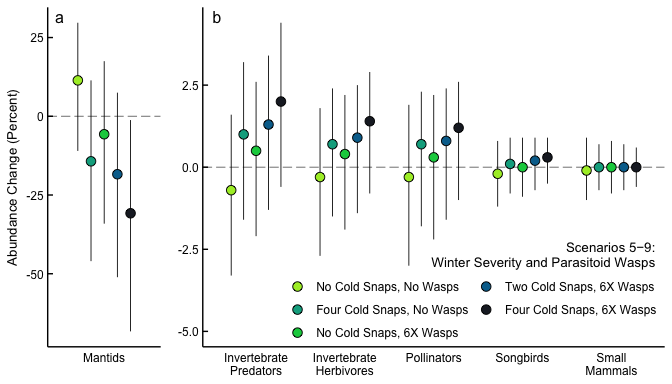
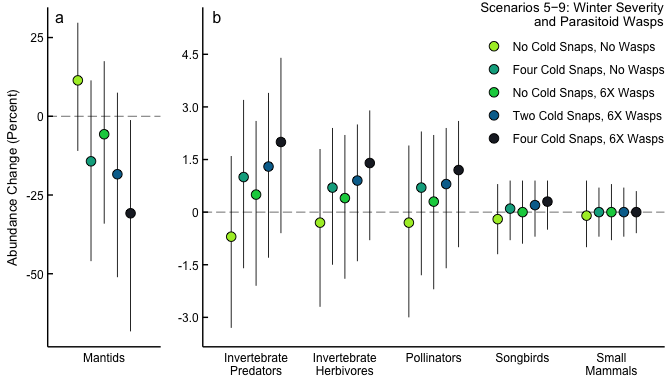
REFRESHED reports and figure dims

diff --git a/mantid_observations_mt.md b/mantid_observations_mt.md
@@ -1,7 +1,7 @@
 *Mantis religiosa* Observations in Western Montana
 ================
 Beau Larkin
-Last updated: 20 October, 2025
+Last updated: 27 October, 2025
 
 - [Description](#description)
 - [Packages and Libraries](#packages-and-libraries)
@@ -115,7 +115,7 @@ us_states <- ne_states(country = c("United States of America", "Canada"), return
 lakes <- ne_download(scale = 10, type = "lakes", category = "physical", returnclass = "sf")
 ```
 
-    ## Reading layer `ne_10m_lakes' from data source `/private/var/folders/f2/v4gkwmsn0nbd3fmypfh2wl740000gp/T/RtmpGwPpRA/ne_10m_lakes.shp' using driver `ESRI Shapefile'
+    ## Reading layer `ne_10m_lakes' from data source `/private/var/folders/f2/v4gkwmsn0nbd3fmypfh2wl740000gp/T/Rtmpom4B1B/ne_10m_lakes.shp' using driver `ESRI Shapefile'
     ## Simple feature collection with 1355 features and 41 fields
     ## Geometry type: MULTIPOLYGON
     ## Dimension:     XY
@@ -204,8 +204,7 @@ area_box <- st_bbox(c(xmin = -115.54, ymin = 45.84, xmax = -112.86, ymax = 48.64
 lakes_na <- ne_download(scale = 10, type = "lakes_north_america", category = "physical", returnclass = "sf")
 ```
 
-    ## Reading layer `ne_10m_lakes_north_america' from data source 
-    ##   `/private/var/folders/f2/v4gkwmsn0nbd3fmypfh2wl740000gp/T/RtmpGwPpRA/ne_10m_lakes_north_america.shp' using driver `ESRI Shapefile'
+    ## Reading layer `ne_10m_lakes_north_america' from data source `/private/var/folders/f2/v4gkwmsn0nbd3fmypfh2wl740000gp/T/Rtmpom4B1B/ne_10m_lakes_north_america.shp' using driver `ESRI Shapefile'
     ## Simple feature collection with 1162 features and 36 fields
     ## Geometry type: MULTIPOLYGON
     ## Dimension:     XY
@@ -217,7 +216,7 @@ rivers <- ne_download(scale = 10, type = "rivers_lake_centerlines", category = "
 ```
 
     ## Reading layer `ne_10m_rivers_lake_centerlines' from data source 
-    ##   `/private/var/folders/f2/v4gkwmsn0nbd3fmypfh2wl740000gp/T/RtmpGwPpRA/ne_10m_rivers_lake_centerlines.shp' using driver `ESRI Shapefile'
+    ##   `/private/var/folders/f2/v4gkwmsn0nbd3fmypfh2wl740000gp/T/Rtmpom4B1B/ne_10m_rivers_lake_centerlines.shp' using driver `ESRI Shapefile'
     ## Simple feature collection with 1473 features and 38 fields
     ## Geometry type: MULTILINESTRING
     ## Dimension:     XY
@@ -228,8 +227,7 @@ rivers <- ne_download(scale = 10, type = "rivers_lake_centerlines", category = "
 rivers_na <- ne_download(scale = 10, type = "rivers_north_america", category = "physical", returnclass = "sf")
 ```
 
-    ## Reading layer `ne_10m_rivers_north_america' from data source 
-    ##   `/private/var/folders/f2/v4gkwmsn0nbd3fmypfh2wl740000gp/T/RtmpGwPpRA/ne_10m_rivers_north_america.shp' using driver `ESRI Shapefile'
+    ## Reading layer `ne_10m_rivers_north_america' from data source `/private/var/folders/f2/v4gkwmsn0nbd3fmypfh2wl740000gp/T/Rtmpom4B1B/ne_10m_rivers_north_america.shp' using driver `ESRI Shapefile'
     ## Simple feature collection with 4897 features and 40 fields (with 19 geometries empty)
     ## Geometry type: MULTILINESTRING
     ## Dimension:     XY

diff --git a/sensitivity_analysis_results.md b/sensitivity_analysis_results.md
@@ -1,7 +1,7 @@
 Sensitivity Analysis Results from MANTRIX
 ================
 Beau Larkin
-Last updated: 20 October, 2025
+Last updated: 27 October, 2025
 
 - [Description](#description)
 - [Packages and Libraries](#packages-and-libraries)
@@ -140,7 +140,7 @@ fig4 <- ggplot(fig4_data, aes(x = name, y = pct_change)) +
   labs(x = NULL, y = "Abundance Change (Percent)") +
   theme_bgl_s +
   guides(fill = guide_legend(position = "inside")) +
-  theme(legend.position.inside = c(0.88, 0.22), legend.title = element_text(hjust = 0))
+  theme(legend.position.inside = c(0.86, 0.30), legend.title = element_text(hjust = 0))
 ```
 
 ``` r
@@ -213,10 +213,10 @@ fig5_targets <- fig5_data %>%
     position = position_dodge(width = fig_dodgewidth)
   ) +
   scale_x_discrete(labels = guild_labs) +
-  scale_fill_manual(name = "Scenarios 5−9:\nWinter Severity and Parasitoid Wasps", values = fig5_pal) +
+  scale_fill_manual(name = "Scenarios 5−9: Winter Severity\nand Parasitoid Wasps", values = fig5_pal) +
   labs(x = NULL, y = "Abundance Change (Percent)") +
   theme_bgl_s +
-  guides(fill = guide_legend(position = "inside", ncol = 2)) +
+  guides(fill = guide_legend(position = "inside", ncol = 1)) +
   theme(legend.position.inside = c(0.58, 0.16), legend.title = element_text(hjust = 1))
 ```
 
@@ -225,9 +225,21 @@ Arrange panels
 ``` r
 fig5 <- ggarrange(
   fig5_mantis + theme(legend.position = "none"),
-  fig5_targets + lims(y = c(-5, 4.4)) + theme(axis.title.y = element_blank()),
-  nrow = 1, ncol = 2, labels = c("a", "b"),
-  hjust = c(-6.2, -5), vjust = 2,
+  fig5_targets +
+    scale_y_continuous(
+      limits = c(-3.4, 5.4),
+      breaks = c(-3, -1.5, 0, 1.5, 3, 4.5),
+      labels = c("-3.0", "-1.5", "0", "1.5", "3.0", "4.5")
+    ) +
+    theme(
+      axis.title.y = element_blank(),
+      legend.position.inside = c(0.80, 0.80)
+    ),
+  nrow = 1,
+  ncol = 2,
+  labels = c("a", "b"),
+  hjust = c(-6.2, -5),
+  vjust = 2,
   font.label = list(size = 12, face = "plain"),
   widths = c(0.25, 0.75),
   align = "h"

diff --git a/wmt_winter_severity.md b/wmt_winter_severity.md
@@ -1,7 +1,7 @@
 Western Montana: Historical Extreme Cold Snaps
 ================
 Beau Larkin
-Last updated: 20 October, 2025
+Last updated: 27 October, 2025
 
 - [Description](#description)
 - [Packages and Libraries](#packages-and-libraries)

diff --git a/mantid_abundance_pcis.md b/mantid_abundance_pcis.md
@@ -1,7 +1,7 @@
 Mantid Abundance and Interaction Strength Estimates
 ================
 Beau Larkin
-Last updated: 20 October, 2025
+Last updated: 27 October, 2025
 
 - [Description](#description)
 - [Packages](#packages)
